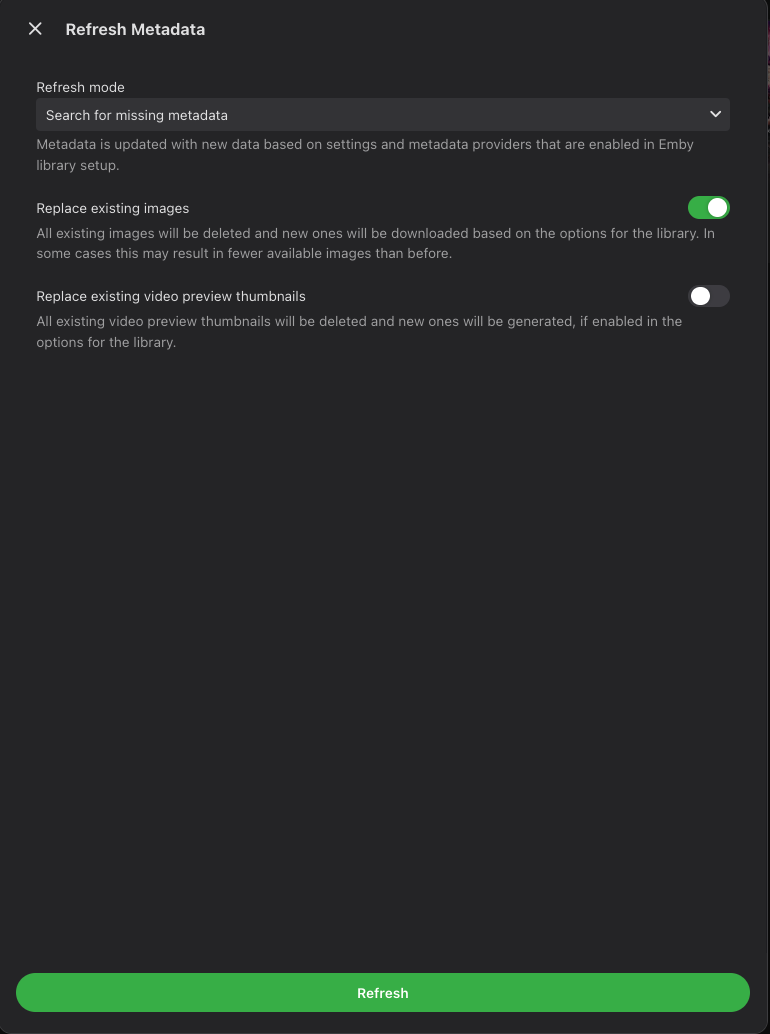
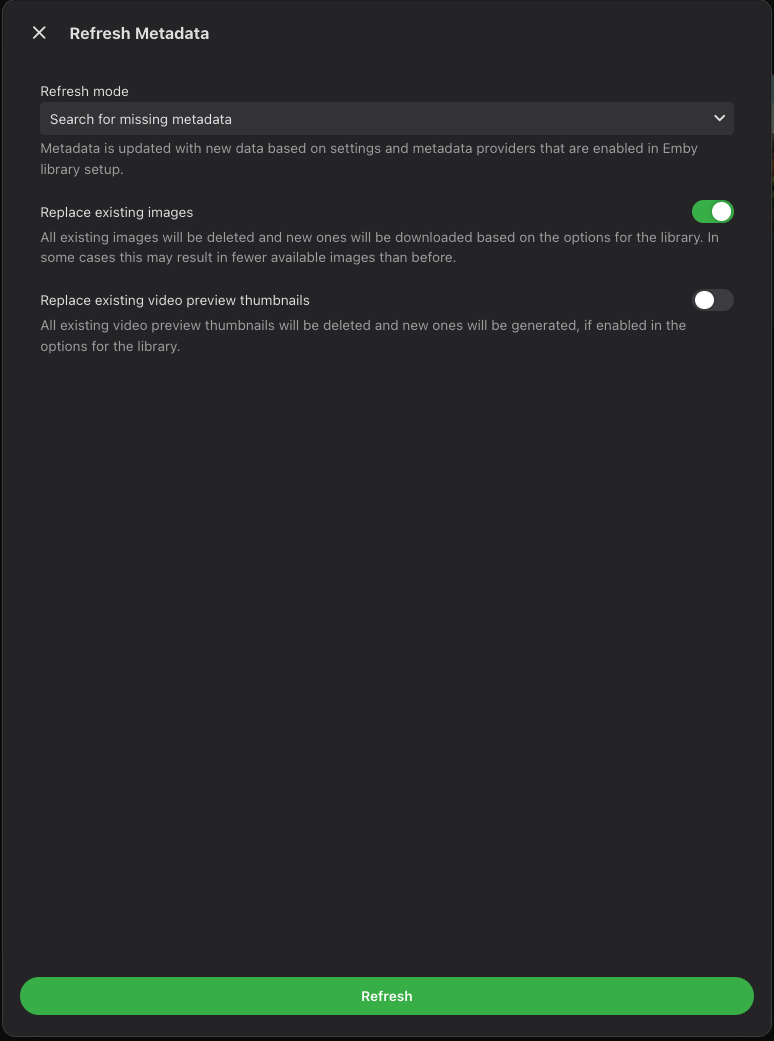
cleanup up settings form

diff --git a/src/Emby.Plugin.CustomArtFetcher/Model/PluginOptions.cs b/src/Emby.Plugin.CustomArtFetcher/Model/PluginOptions.cs
@@ -32,7 +32,7 @@ namespace Emby.Plugin.CustomArtFetcher.Model
         /// <summary>Separates the page description above from the first toggle.</summary>
         public SpacerItem SpacerTop { get; set; } = new SpacerItem();
 
-        [DisplayName("Fetch posters")]
+        [DisplayName("Fetch Posters")]
         public bool EnablePoster { get; set; } = true;
 
         [DisplayName("Poster URL")]
@@ -47,7 +47,7 @@ namespace Emby.Plugin.CustomArtFetcher.Model
         public StatusItem PosterStatus { get; set; } =
             new StatusItem("Poster URL", "Not tested yet.", ItemStatus.Unknown);
 
-        [DisplayName("Fetch backdrops")]
+        [DisplayName("Fetch Backdrops")]
         public bool EnableBackdrop { get; set; } = false;
 
         [DisplayName("Backdrop URL")]
@@ -77,7 +77,7 @@ namespace Emby.Plugin.CustomArtFetcher.Model
         public StatusItem ThumbStatus { get; set; } =
             new StatusItem("Thumb URL", "Not tested yet.", ItemStatus.Unknown);
 
-        [DisplayName("Fetch logos")]
+        [DisplayName("Fetch Logos")]
         public bool EnableLogo { get; set; } = false;
 
         [DisplayName("Logo URL")]
@@ -105,12 +105,6 @@ namespace Emby.Plugin.CustomArtFetcher.Model
         public SpacerItem Spacer2 { get; set; } = new SpacerItem();
 
         public CaptionItem BehaviorCaption { get; set; } = new CaptionItem("Behavior");
-
-        [DisplayName("Use for movies")]
-        public bool EnableForMovies { get; set; } = true;
-
-        [DisplayName("Use for series")]
-        public bool EnableForSeries { get; set; } = true;
 
         [DisplayName("Check that the image exists first")]
         [Description("Sends a HEAD request before offering an image to Emby, and skips it if the "
@@ -155,19 +149,13 @@ namespace Emby.Plugin.CustomArtFetcher.Model
         {
             base.Validate(context);
 
-            // Each URL is only required once its own toggle is on, so an unfinished URL left behind
-            // a switched-off type never blocks saving.
-            if (!this.EnablePoster && !this.EnableBackdrop && !this.EnableThumb && !this.EnableLogo)
-            {
-                context.AddValidationError(
-                    nameof(this.EnablePoster),
-                    "No image types are switched on, so the plugin would fetch nothing. Switch on at least one.");
-            }
-
-            this.UrlTemplate = ValidateTemplate(context, nameof(this.UrlTemplate), this.UrlTemplate, this.EnablePoster, "poster");
-            this.BackdropUrlTemplate = ValidateTemplate(context, nameof(this.BackdropUrlTemplate), this.BackdropUrlTemplate, this.EnableBackdrop, "backdrop");
-            this.ThumbUrlTemplate = ValidateTemplate(context, nameof(this.ThumbUrlTemplate), this.ThumbUrlTemplate, this.EnableThumb, "thumb");
-            this.LogoUrlTemplate = ValidateTemplate(context, nameof(this.LogoUrlTemplate), this.LogoUrlTemplate, this.EnableLogo, "logo");
+            // A blank URL never blocks saving: the page has to be storable half-finished, and an
+            // image type left switched on with no URL simply fetches nothing (the provider skips
+            // empty templates). Only a URL that has actually been typed is held to the format rules.
+            this.UrlTemplate = ValidateTemplate(context, nameof(this.UrlTemplate), this.UrlTemplate, "poster");
+            this.BackdropUrlTemplate = ValidateTemplate(context, nameof(this.BackdropUrlTemplate), this.BackdropUrlTemplate, "backdrop");
+            this.ThumbUrlTemplate = ValidateTemplate(context, nameof(this.ThumbUrlTemplate), this.ThumbUrlTemplate, "thumb");
+            this.LogoUrlTemplate = ValidateTemplate(context, nameof(this.LogoUrlTemplate), this.LogoUrlTemplate, "logo");
         }
 
         private static void ResetStatus(StatusItem status, string caption)
@@ -178,28 +166,20 @@ namespace Emby.Plugin.CustomArtFetcher.Model
         }
 
         /// <summary>
-        /// Trims one URL template and, when its image type is switched on, holds it to the same
-        /// three rules as the poster URL: present, absolute http/https once the placeholders are
-        /// filled in, and carrying at least one placeholder.
+        /// Trims one URL template and, if anything was typed, checks it is an absolute http/https
+        /// address once the placeholders are filled in. An empty template is left alone.
         /// </summary>
         /// <returns>The trimmed template, to be stored back on the property.</returns>
         private static string ValidateTemplate(
             ValidationContext context,
             string propertyName,
             string template,
-            bool required,
             string label)
         {
             template = (template ?? string.Empty).Trim();
 
-            if (!required)
-            {
-                return template;
-            }
-
             if (template.Length == 0)
             {
-                context.AddValidationError(propertyName, "Please enter a " + label + " URL.");
                 return template;
             }
 

diff --git a/src/Emby.Plugin.CustomArtFetcher/UI/UrlTester.cs b/src/Emby.Plugin.CustomArtFetcher/UI/UrlTester.cs
@@ -65,38 +65,23 @@ namespace Emby.Plugin.CustomArtFetcher.UI
                 return;
             }
 
-            var itemTypes = new List<string>();
-            if (options.EnableForMovies)
-            {
-                itemTypes.Add("Movie");
-            }
-
-            if (options.EnableForSeries)
-            {
-                itemTypes.Add("Series");
-            }
-
-            if (itemTypes.Count == 0)
-            {
-                Set(status, ItemStatus.Warning, "Turn on movies or series under Behavior first.");
-                return;
-            }
+            var itemTypes = new[] { "Movie", "Series" };
 
             // Draw at random and skip what the last few clicks already used, so pressing Test
             // repeatedly works through the library instead of asking about one item over and over.
-            var pick = this.PickItem(itemTypes.ToArray(), template, this.GetRecent(type));
+            var pick = this.PickItem(itemTypes, template, this.GetRecent(type));
 
             if (pick.Item == null && pick.Examined == 0)
             {
                 // Nothing left once the recent ones were excluded. Forget them and draw again, so a
                 // small library cycles rather than running out.
                 this.ForgetRecent(type);
-                pick = this.PickItem(itemTypes.ToArray(), template, new long[0]);
+                pick = this.PickItem(itemTypes, template, new long[0]);
             }
 
             if (pick.Examined == 0)
             {
-                Set(status, ItemStatus.Unavailable, "No " + string.Join(" or ", itemTypes.ToArray()).ToLowerInvariant() + " found in the library to test with.");
+                Set(status, ItemStatus.Unavailable, "No " + string.Join(" or ", itemTypes).ToLowerInvariant() + " found in the library to test with.");
                 return;
             }
 

diff --git a/src/Emby.Plugin.CustomArtFetcher/Providers/ArtImageProvider.cs b/src/Emby.Plugin.CustomArtFetcher/Providers/ArtImageProvider.cs
@@ -74,17 +74,7 @@ namespace Emby.Plugin.CustomArtFetcher.Providers
                 return false;
             }
 
-            if (item is Movie)
-            {
-                return options.EnableForMovies;
-            }
-
-            if (item is Series)
-            {
-                return options.EnableForSeries;
-            }
-
-            return false;
+            return item is Movie || item is Series;
         }
 
         /// <summary>

diff --git a/README.md b/README.md
@@ -1,5 +1,7 @@
 # Custom Art Fetcher
 
+[![.NET](https://github.com/barneacode/Emby.Plugin.CustomArtFetcher/actions/workflows/dotnet.yml/badge.svg)](https://github.com/barneacode/Emby.Plugin.CustomArtFetcher/actions/workflows/dotnet.yml)
+
 An Emby 4.10 plugin that fetches poster (primary) images for **movies** and **series** from a URL you configure, with
 placeholders filled in per item from the metadata ids Emby holds for it. Point it at your own poster
 server, an art mirror, or anything that serves an image at a predictable URL.
@@ -21,7 +23,6 @@ generated by Emby from
 | --- | --- |
 | Poster URL | The URL template. Rejected on save only if it is not an absolute http/https address; a URL with no placeholders is allowed. |
 | Available placeholders | Read-only list, generated from the catalog so it always matches the build. |
-| Use for movies / Use for series | Which item types the fetcher offers images for. |
 | Check that the image exists first | HEAD the URL before offering it; skip the item if it isn't an image. |
 | Request timeout | Timeout for that check. |
 | Log every request | Logs each URL built, each request sent and the response, at Info level — each line tagged with the fetcher ranking. |
@@ -88,10 +89,10 @@ dotnet build -c Release
 
 Output: `src/Emby.Plugin.CustomArtFetcher/bin/Release/netstandard2.0/Emby.Plugin.CustomArtFetcher.dll`.
 
-Every build stamps a new version: `$(VersionBase)` in the `.csproj` sets the first three parts and
-the build number in `src/Emby.Plugin.CustomArtFetcher/build-number.txt` supplies the fourth, incrementing
+Every build stamps a new version: `$(VersionBase)` in the `.csproj` sets major and minor, and
+the build number in `src/Emby.Plugin.CustomArtFetcher/build-number.txt` supplies the third part, incrementing
 each time — so the version Emby shows on the plugin page always identifies the exact DLL you
-installed. The build prints it (`Emby.Plugin.CustomArtFetcher version 1.1.0.13`). Bump `VersionBase` by hand
+installed. The build prints it (`Emby.Plugin.CustomArtFetcher version 1.1.13`). Bump `VersionBase` by hand
 for a real release; pass `-p:IncrementBuildNumber=false` to build without moving the counter.
 
 Release builds are stripped of the PDB, so the DLL carries no absolute path from the machine that
